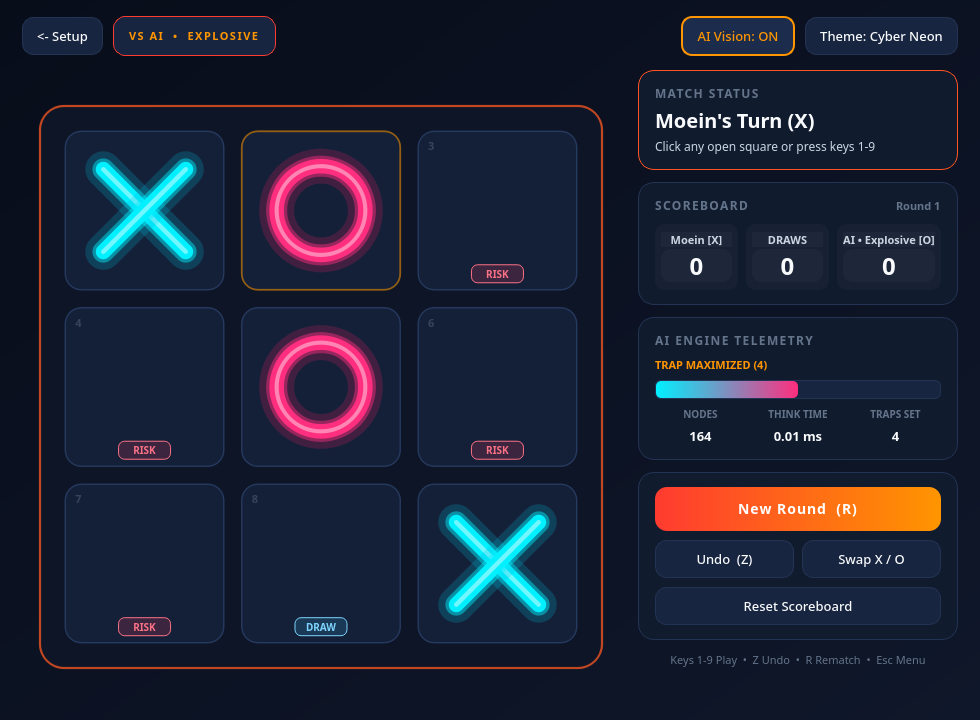
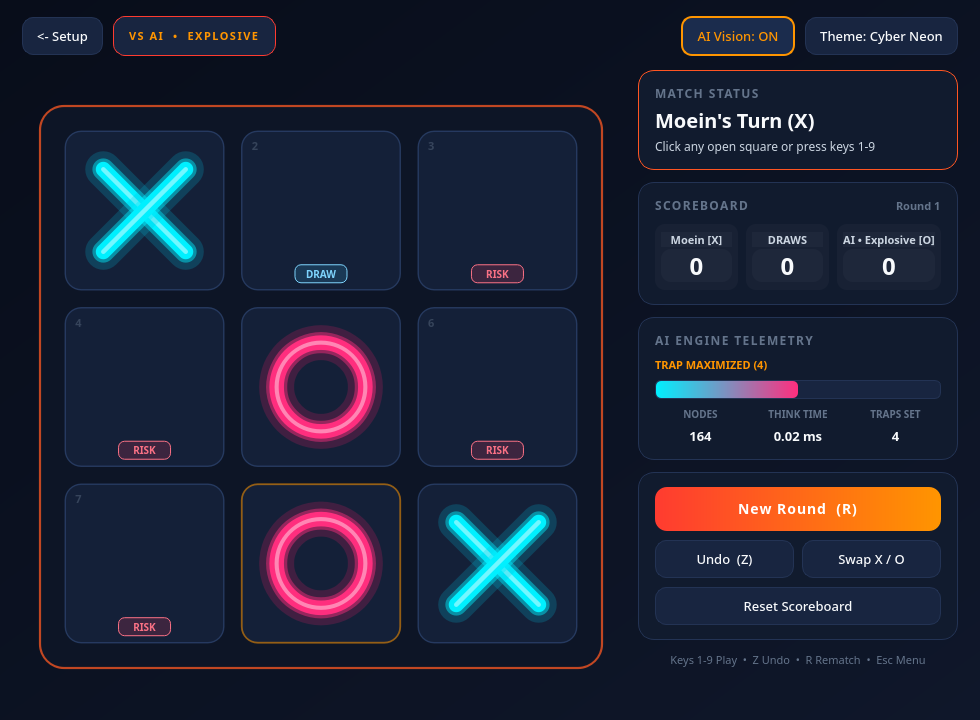
Minor bugs have been fixed

diff --git a/src/main.cpp b/src/main.cpp
@@ -57,14 +57,34 @@ int main(int argc, char* argv[]) {
 
     if (!screenshotDir.empty()) {
         QDir().mkpath(QString::fromStdString(screenshotDir));
-        QTimer::singleShot(120, &window, [&window, &app, screenshotDir]() {
-            const QString dir = QString::fromStdString(screenshotDir);
+        const QString dir = QString::fromStdString(screenshotDir);
+
+        QTimer::singleShot(120, &window, [&window, &app, dir]() {
             window.grab().save(dir + "/setup_screen.png");
 
-            window.setupDemoState(ttt::Difficulty::Explosive, true);
-            QTimer::singleShot(150, &window, [&window, &app, dir]() {
+            // 1. Cyber Neon + Explosive Overdrive + AI Vision
+            window.setupDemoState(ttt::gui::ThemeId::CyberNeon, ttt::Difficulty::Explosive, true, false);
+            QTimer::singleShot(160, &window, [&window, &app, dir]() {
                 window.grab().save(dir + "/arena_explosive.png");
-                app.quit();
+
+                // 2. Cyber Neon Theme (Hard AI + Winning Laser Beam)
+                window.setupDemoState(ttt::gui::ThemeId::CyberNeon, ttt::Difficulty::Hard, false, true);
+                QTimer::singleShot(420, &window, [&window, &app, dir]() {
+                    window.grab().save(dir + "/theme_cyber_neon.png");
+
+                    // 3. Obsidian Gold Theme (Hard AI + AI Vision)
+                    window.setupDemoState(ttt::gui::ThemeId::ObsidianGold, ttt::Difficulty::Hard, true, false);
+                    QTimer::singleShot(180, &window, [&window, &app, dir]() {
+                        window.grab().save(dir + "/theme_obsidian_gold.png");
+
+                        // 4. Retro 2024 Terminal Tribute Theme (Medium AI + Winning Laser Beam)
+                        window.setupDemoState(ttt::gui::ThemeId::Retro2024, ttt::Difficulty::Medium, false, true);
+                        QTimer::singleShot(420, &window, [&window, &app, dir]() {
+                            window.grab().save(dir + "/theme_retro_2024.png");
+                            app.quit();
+                        });
+                    });
+                });
             });
         });
     }

diff --git a/src/gui/MainWindow.cpp b/src/gui/MainWindow.cpp
@@ -838,7 +838,9 @@ void MainWindow::keyPressEvent(QKeyEvent* event) {
     QMainWindow::keyPressEvent(event);
 }
 
-void MainWindow::setupDemoState(ttt::Difficulty diff, bool showVision) {
+void MainWindow::setupDemoState(ThemeId themeId, ttt::Difficulty diff, bool showVision, bool showWin) {
+    currentThemeId_ = themeId;
+    theme_ = makeTheme(currentThemeId_);
     selectedMode_ = ttt::GameMode::PlayerVsAI;
     selectedDifficulty_ = diff;
     selectedMark_ = ttt::Mark::X;
@@ -851,12 +853,25 @@ void MainWindow::setupDemoState(ttt::Difficulty diff, bool showVision) {
     cfg.player1Name = "Moein";
     cfg.player1Mark = ttt::Mark::X;
     session_.configure(cfg);
+    boardWidget_->clearAnimations();
 
-    // Play a realistic tactical sequence so the screenshot shows active moves & telemetry
-    (void)session_.applyMove(0); // X top-left
-    (void)session_.performAIMove(); // AI responds optimally (center)
-    (void)session_.applyMove(8); // X bottom-right
-    (void)session_.performAIMove(); // AI blocks / attacks
+    if (showWin) {
+        // Showcase a dramatic completed winning line with glowing laser beam & scoreboard update.
+        (void)session_.applyMove(0); // X top-left
+        (void)session_.applyMove(3); // O mid-left
+        (void)session_.applyMove(4); // X center
+        (void)session_.applyMove(5); // O mid-right
+        (void)session_.applyMove(8); // X bottom-right -> diagonal win!
+        if (const auto wl = session_.board().winningLine(); wl.has_value()) {
+            boardWidget_->triggerWinAnimation(*wl, ttt::Mark::X, false);
+        }
+    } else {
+        // Play a realistic tactical sequence so the screenshot shows active moves & telemetry.
+        (void)session_.applyMove(0);    // X top-left
+        (void)session_.performAIMove(); // AI responds
+        (void)session_.applyMove(8);    // X bottom-right
+        (void)session_.performAIMove(); // AI attacks/blocks
+    }
 
     stack_->setCurrentIndex(1);
     applyTheme();

diff --git a/src/gui/MainWindow.hpp b/src/gui/MainWindow.hpp
@@ -23,7 +23,7 @@ public:
     explicit MainWindow(QWidget* parent = nullptr);
 
     // Helper used for automated visual inspection / screenshot verification.
-    void setupDemoState(ttt::Difficulty diff, bool showVision);
+    void setupDemoState(ThemeId themeId, ttt::Difficulty diff, bool showVision, bool showWin = false);
 
 protected:
     void keyPressEvent(QKeyEvent* event) override;

diff --git a/README.md b/README.md
@@ -13,9 +13,17 @@ A modern **2026 C++20 remaster** of one of the very first programs I ever wrote 
 
 ## Visual Showcase
 
+### Launch Studio & Explosive Overdrive
+
 | Launch & Match Setup (`Cyber Neon`) | Live Arena (`Explosive Overdrive` + `AI Vision`) |
 | :---: | :---: |
 | ![Setup Screen](docs/screenshots/setup_screen.png) | ![Explosive Arena](docs/screenshots/arena_explosive.png) |
+
+### Three Built-In Visual Themes
+
+| Cyber Neon *(2026 Default)* | Obsidian Gold *(Minimalist Luxury)* | Retro 2024 *(CRT Console Tribute)* |
+| :---: | :---: | :---: |
+| ![Cyber Neon Theme](docs/screenshots/theme_cyber_neon.png) | ![Obsidian Gold Theme](docs/screenshots/theme_obsidian_gold.png) | ![Retro 2024 Theme](docs/screenshots/theme_retro_2024.png) |
 
 ---
 
